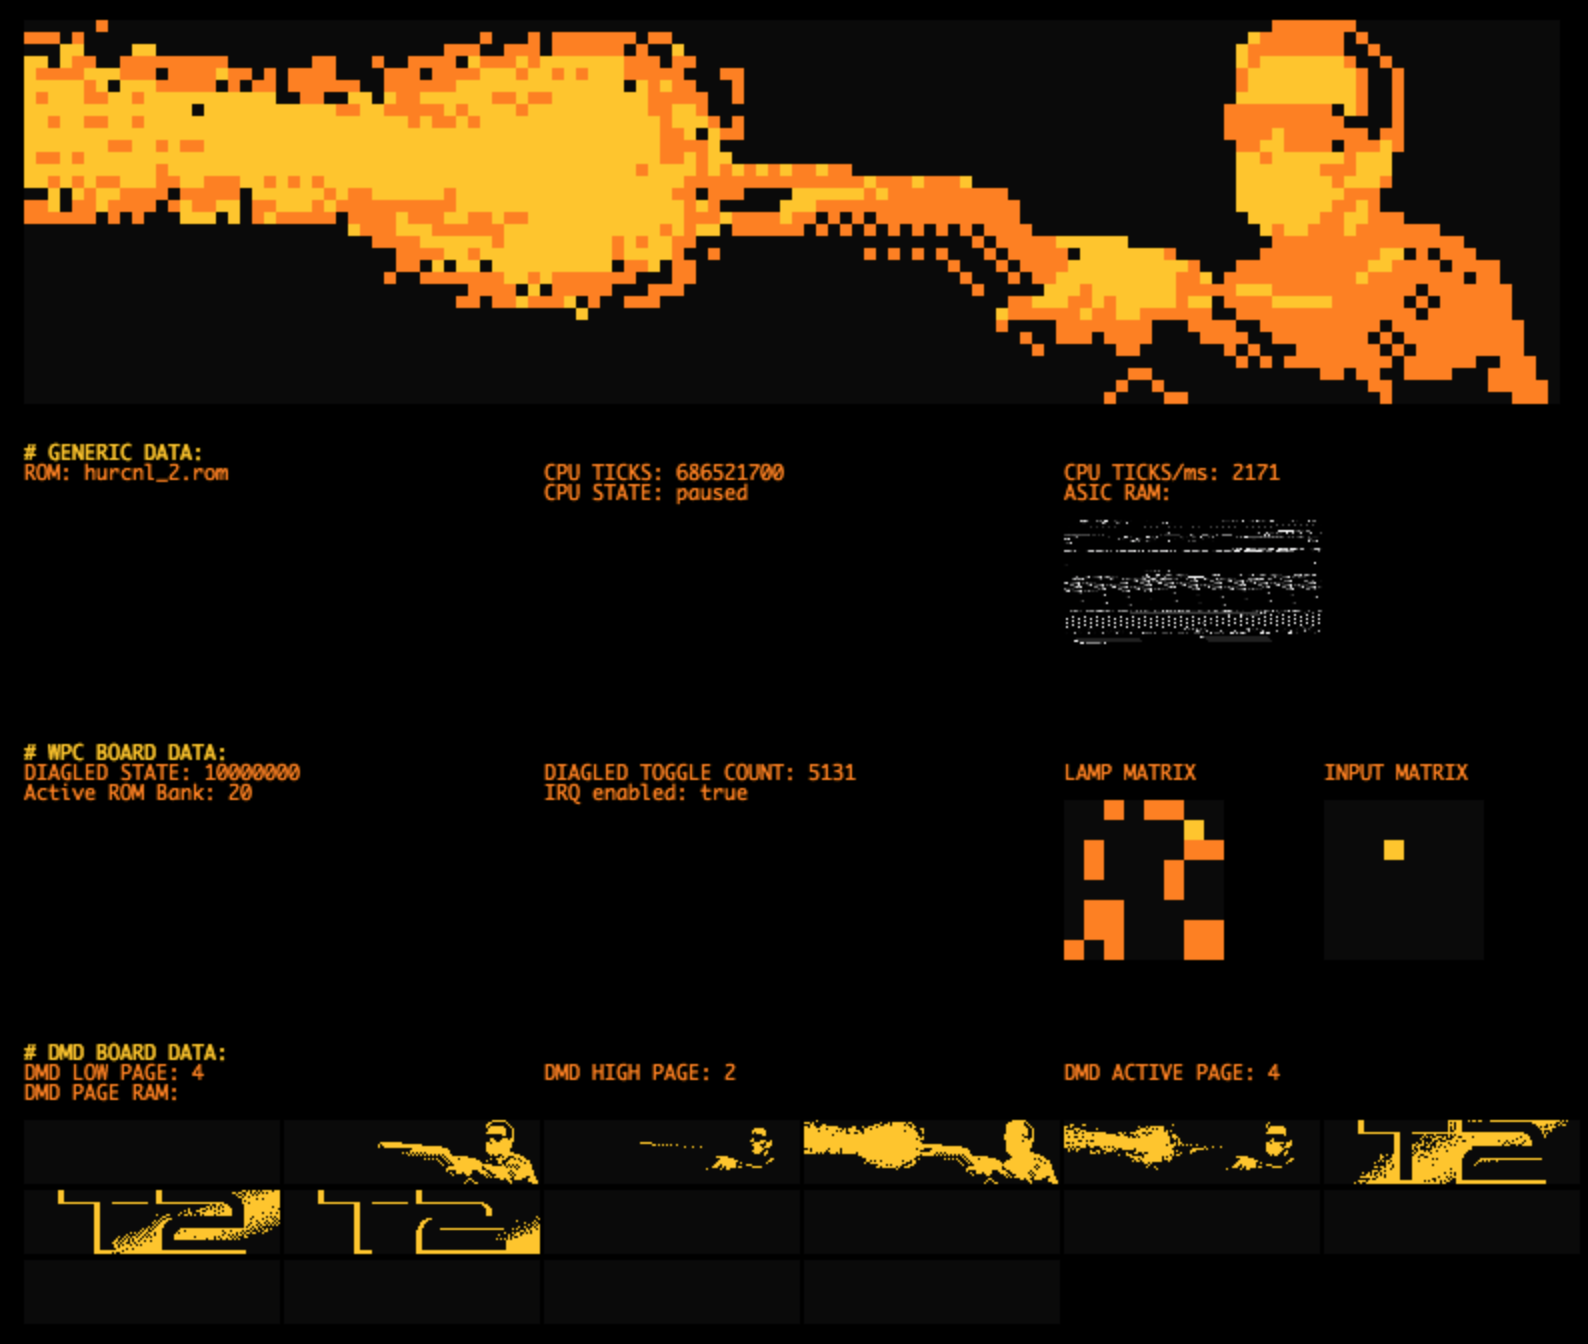
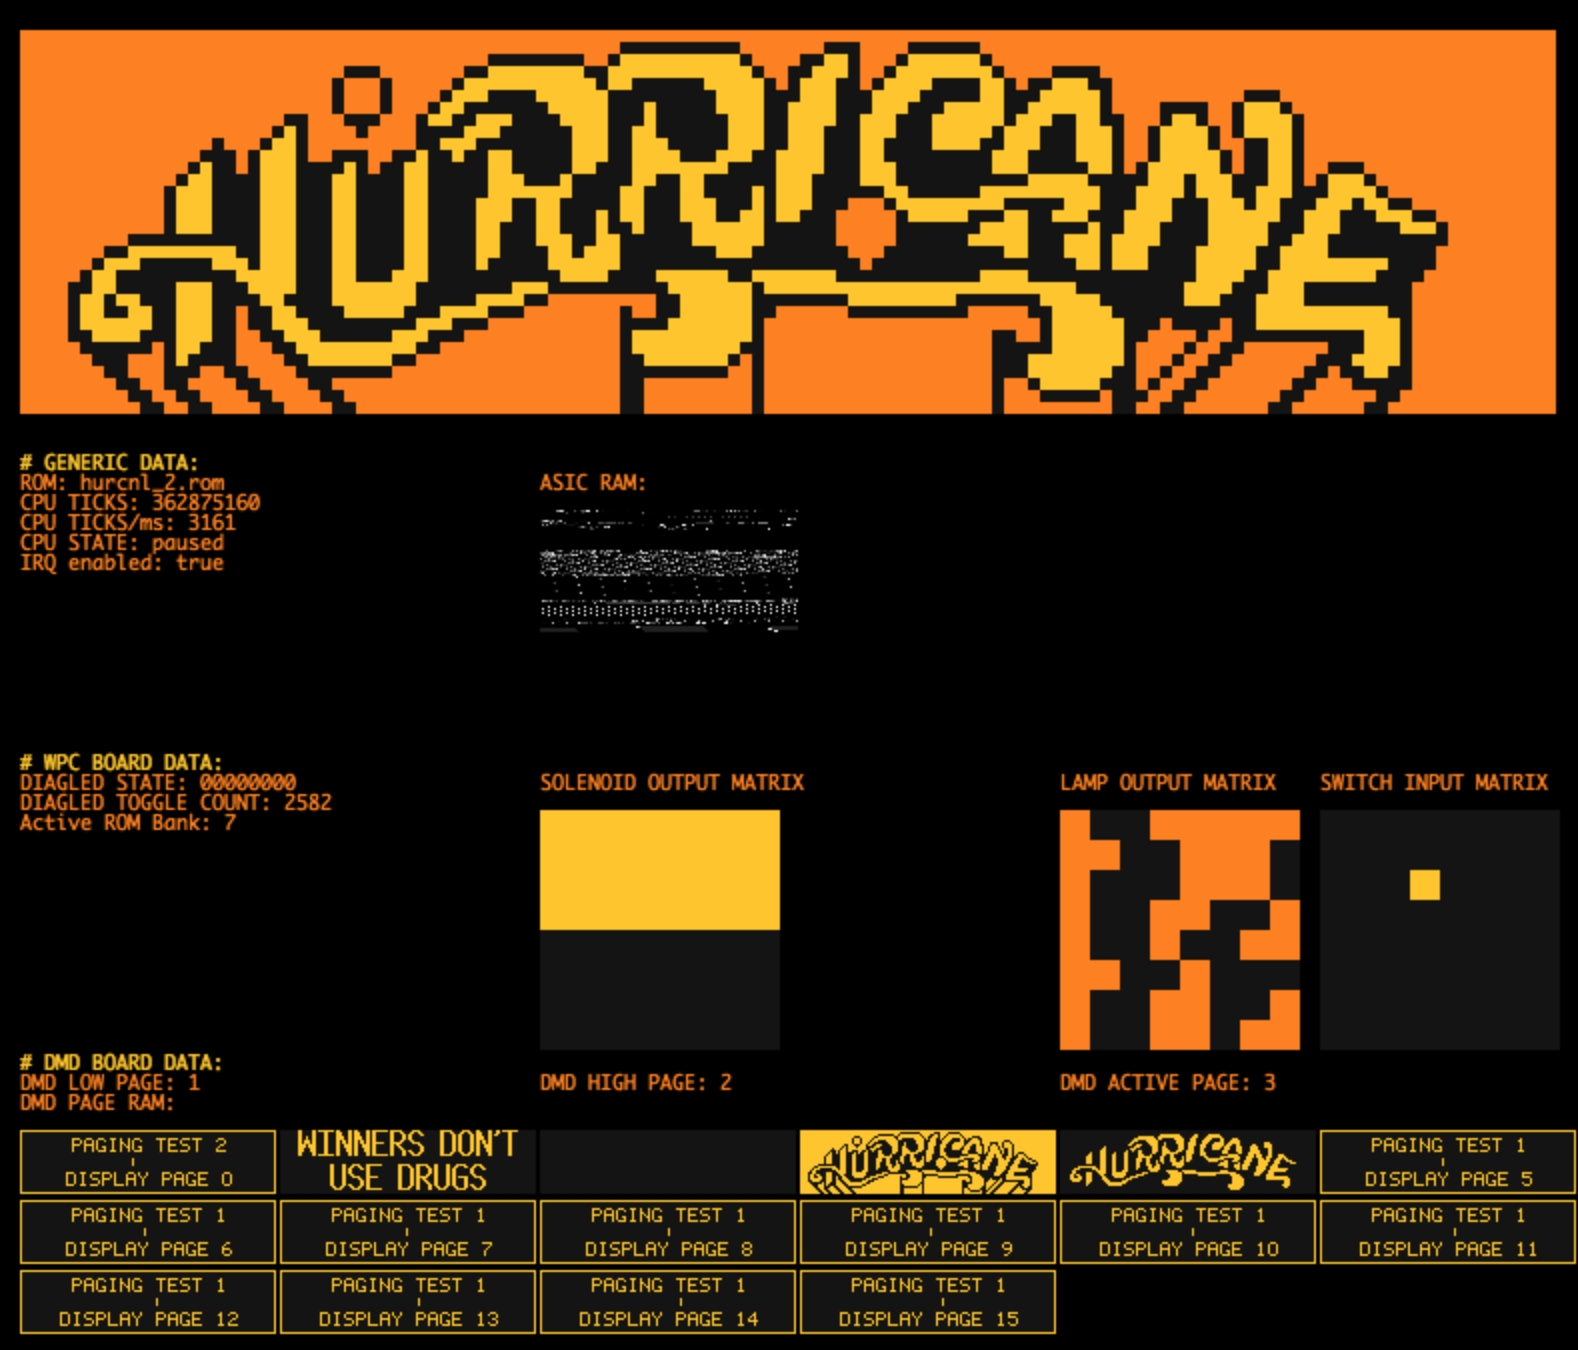
add solenoid skeleton

diff --git a/client/client.js b/client/client.js
@@ -10,7 +10,7 @@ console.log('hello');
 const CANVAS_WIDTH = 800;
 const CANVAS_HEIGHT = 800;
 var COLOR_DMD = [
-  'rgb(10,10,10)',
+  'rgb(20,20,20)',
   'rgb(164,82,0)',
   'rgb(255,128,0)',
   'rgb(255,198,0)',
@@ -68,8 +68,8 @@ function resetEmu() {
   console.log('reset emu');
   // HINT: make sure CORS is correct
   //downloadFileFromUrlAsUInt8Array('https://s3-eu-west-1.amazonaws.com/foo-temp/ft20_32.rom')
-  downloadFileFromUrlAsUInt8Array('https://s3-eu-west-1.amazonaws.com/foo-temp/t2_l8.rom')
-  //downloadFileFromUrlAsUInt8Array('https://s3-eu-west-1.amazonaws.com/foo-temp/hurcnl_2.rom')
+  //downloadFileFromUrlAsUInt8Array('https://s3-eu-west-1.amazonaws.com/foo-temp/t2_l8.rom')
+  downloadFileFromUrlAsUInt8Array('https://s3-eu-west-1.amazonaws.com/foo-temp/hurcnl_2.rom')
   //downloadFileFromUrlAsUInt8Array('https://s3-eu-west-1.amazonaws.com/foo-temp/tz_h8.u6')
     .then((rom) => {
       return WpcEmu.initVMwithRom(rom, 'hurcnl_2.rom');
@@ -116,21 +116,24 @@ function updateCanvas() {
 
   c.fillStyle = COLOR_DMD[2];
   c.fillText('ROM: hurcnl_2.rom', LEFT_X_OFFSET, YPOS_GENERIC_DATA + 10);
-  c.fillText('CPU TICKS: ' + emuState.ticks, MIDDLE_X_OFFSET, YPOS_GENERIC_DATA + 10);
-  c.fillText('CPU TICKS/ms: ' + emuState.opMs, RIGHT_X_OFFSET, YPOS_GENERIC_DATA + 10);
+  c.fillText('CPU TICKS: ' + emuState.ticks, LEFT_X_OFFSET, YPOS_GENERIC_DATA + 20);
+  c.fillText('CPU TICKS/ms: ' + emuState.opMs, LEFT_X_OFFSET, YPOS_GENERIC_DATA + 30);
   const cpuState = intervalId ? 'running' : 'paused';
-  c.fillText('CPU STATE: ' + cpuState, MIDDLE_X_OFFSET, YPOS_GENERIC_DATA + 20);
-  c.fillText('ASIC RAM:', RIGHT_X_OFFSET, YPOS_GENERIC_DATA + 20);
+  c.fillText('CPU STATE: ' + cpuState, LEFT_X_OFFSET, YPOS_GENERIC_DATA + 40);
+  c.fillText('IRQ enabled: ' + emuState.asic.wpc.irqEnabled, LEFT_X_OFFSET, YPOS_GENERIC_DATA + 50);
+
+  c.fillText('ASIC RAM:', MIDDLE_X_OFFSET, YPOS_GENERIC_DATA + 10);
 
   const diagnosticLed = emuState.asic.wpc.diagnosticLed ? emuState.asic.wpc.diagnosticLed.toString(2) : '00000000';
   const activePage = emuState.asic.dmd.activepage;
   c.fillText('DIAGLED STATE: ' + diagnosticLed, LEFT_X_OFFSET, YPOS_WPC_DATA + 10);
-  c.fillText('DIAGLED TOGGLE COUNT: ' + emuState.asic.wpc.diagnosticLedToggleCount, MIDDLE_X_OFFSET, YPOS_WPC_DATA + 10);
-  c.fillText('LAMP MATRIX', RIGHT_X_OFFSET, YPOS_WPC_DATA + 10);
-  c.fillText('INPUT MATRIX', RIGHT_PLUS_X_OFFSET, YPOS_WPC_DATA + 10);
+  c.fillText('DIAGLED TOGGLE COUNT: ' + emuState.asic.wpc.diagnosticLedToggleCount, LEFT_X_OFFSET, YPOS_WPC_DATA + 20);
+  c.fillText('Active ROM Bank: ' + emuState.asic.wpc.activeRomBank, LEFT_X_OFFSET, YPOS_WPC_DATA + 30);
 
-  c.fillText('Active ROM Bank: ' + emuState.asic.wpc.activeRomBank, LEFT_X_OFFSET, YPOS_WPC_DATA + 20);
-  c.fillText('IRQ enabled: ' + emuState.asic.wpc.irqEnabled, MIDDLE_X_OFFSET, YPOS_WPC_DATA + 20);
+  c.fillText('SOLENOID OUTPUT MATRIX', MIDDLE_X_OFFSET, YPOS_WPC_DATA + 10);
+  c.fillText('LAMP OUTPUT MATRIX', RIGHT_X_OFFSET, YPOS_WPC_DATA + 10);
+  c.fillText('SWITCH INPUT MATRIX', RIGHT_PLUS_X_OFFSET, YPOS_WPC_DATA + 10);
+
 
   c.fillText('DMD LOW PAGE: ' + emuState.asic.dmd.lowpage, LEFT_X_OFFSET, YPOS_DMD_DATA + 10);
   c.fillText('DMD HIGH PAGE: ' + emuState.asic.dmd.highpage, MIDDLE_X_OFFSET, YPOS_DMD_DATA + 10);
@@ -138,10 +141,10 @@ function updateCanvas() {
 
   c.fillText('DMD PAGE RAM:', LEFT_X_OFFSET, YPOS_DMD_DATA + 20);
 
+  drawMemRegion(emuState.asic.ram, MIDDLE_X_OFFSET, YPOS_GENERIC_DATA + 20, 128);
   drawMatrix8x8(emuState.asic.wpc.lampState, RIGHT_X_OFFSET, YPOS_WPC_DATA + 20);
+  drawMatrix8x8(emuState.asic.wpc.solenoidState, MIDDLE_X_OFFSET, YPOS_WPC_DATA + 20);
   drawMatrix8x8Binary(emuState.asic.wpc.inputState, RIGHT_PLUS_X_OFFSET, YPOS_WPC_DATA + 20);
-
-  drawMemRegion(emuState.asic.ram, RIGHT_X_OFFSET, YPOS_GENERIC_DATA + 30, 128);
 
   //dmd pages - 8 pixel (on/off) per byte, display is 128x32 pixels
   const videoRam = emuState.asic.dmd.videoRam;
@@ -173,7 +176,7 @@ function drawMemRegion(data, x, y, width) {
 }
 
 function drawMatrix8x8(data, x, y) {
-  const GRIDSIZE = 10;
+  const GRIDSIZE = 15;
   data.forEach((lamp, index) => {
     c.fillStyle = lamp & 0x80 ? COLOR_DMD[3] :
       lamp & 0x70 ? COLOR_DMD[2] : COLOR_DMD[0];

diff --git a/lib/boards/wpc.js b/lib/boards/wpc.js
@@ -4,12 +4,13 @@
 const debug = require('debug')('wpcemu:boards:wpc');
 const inputSwitchMatrix = require('./elements/input-switch-matrix');
 const outputLampMatrix = require('./elements/output-lamp-matrix');
+const outputSolenoidMatrix = require('./elements/output-solenoid-matrix');
 
 const OP = {
-  WPC_SOL_GEN_OUTPUT: 0x3FE0,
-  WPC_SOL_HIGHPOWER_OUTPUT: 0x3FE1,
-  WPC_SOL_FLASH1_OUTPUT: 0x3FE2,
-  WPC_SOL_LOWPOWER_OUTPUT: 0x3FE3,
+  WPC_SOLENOID_GEN_OUTPUT: 0x3FE0,
+  WPC_SOLENOID_HIGHPOWER_OUTPUT: 0x3FE1,
+  WPC_SOLENOID_FLASH1_OUTPUT: 0x3FE2,
+  WPC_SOLENOID_LOWPOWER_OUTPUT: 0x3FE3,
   WPC_LAMP_ROW_OUTPUT: 0x3FE4,
   WPC_LAMP_COL_STROBE: 0x3FE5,
   WPC_GI_TRIAC: 0x3FE6,
@@ -76,6 +77,7 @@ class WpcIo {
 
     this.inputSwitchMatrix = inputSwitchMatrix.getInstance();
     this.outputLampMatrix = outputLampMatrix.getInstance();
+    this.outputSolenoidMatrix = outputSolenoidMatrix.getInstance();
   }
 
   getUiState() {
@@ -84,6 +86,7 @@ class WpcIo {
     return {
       diagnosticLed,
       lampState: this.outputLampMatrix.lampState,
+      solenoidState: this.outputSolenoidMatrix.solenoidState,
       inputState: this.inputSwitchMatrix.switchState,
       diagnosticLedToggleCount: this.diagnosticLedToggleCount,
       irqEnabled: this.periodicIRQTimerEnabled,
@@ -130,10 +133,6 @@ class WpcIo {
       case OP.WPC_SHIFTADDRL:
       case OP.WPC_SHIFTBIT:
       case OP.WPC_SHIFTBIT2:
-      case OP.WPC_SOL_GEN_OUTPUT:
-      case OP.WPC_SOL_HIGHPOWER_OUTPUT:
-      case OP.WPC_SOL_FLASH1_OUTPUT:
-      case OP.WPC_SOL_LOWPOWER_OUTPUT:
       case OP.WPC_GI_TRIAC:
       case OP.WPC_ROM_LOCK:
       case OP.WPC_EXTBOARD1:
@@ -163,6 +162,13 @@ class WpcIo {
         //TODO not sure! without firq call DMD pages seems to be off
         this.interruptCallback.firq();
         return;
+
+      case OP.WPC_SOLENOID_GEN_OUTPUT:
+      case OP.WPC_SOLENOID_HIGHPOWER_OUTPUT:
+      case OP.WPC_SOLENOID_FLASH1_OUTPUT:
+      case OP.WPC_SOLENOID_LOWPOWER_OUTPUT:
+        this.outputSolenoidMatrix.setActive(offset, value);
+        break;
 
       case OP.WPC_LEDS:
         if (value !== this.oldDiagnostigLedState) {
@@ -288,10 +294,10 @@ class WpcIo {
   wpcemu:boards:wpc W_NOT_IMPLEMENTED 0x3ff3 0 +57ms
 
 Address	  Format	 Description
-$3FE0     Byte     WPC_SOL_GEN_OUTPUT (7-0: W: Enables for solenoids 25-29)
-$3FE1     Byte     WPC_SOL_HIGHPOWER_OUTPUT (7-0: W: Enables for solenoids 1-8)
-$3FE2     Byte     WPC_SOL_FLASH1_OUTPUT (7-0: W: Enables for solenoids 17-24)
-$3FE3     Byte     WPC_SOL_LOWPOWER_OUTPUT (7-0: W: Enables for solenoids 9-16)
+$3FE0     Byte     WPC_SOLENOID_GEN_OUTPUT (7-0: W: Enables for solenoids 25-29) or 25-28???
+$3FE1     Byte     WPC_SOLENOID_HIGHPOWER_OUTPUT (7-0: W: Enables for solenoids 1-8)
+$3FE2     Byte     WPC_SOLENOID_FLASH1_OUTPUT (7-0: W: Enables for solenoids 17-24)
+$3FE3     Byte     WPC_SOLENOID_LOWPOWER_OUTPUT (7-0: W: Enables for solenoids 9-16)
 $3FE4     Byte     WPC_LAMP_ROW_OUTPUT (7-0: W: Lamp matrix row output)
 $3FE5     Byte     WPC_LAMP_COL_STROBE (7-0: W: Enables for solenoids 9-16)
                     7-0: W: Lamp matrix column strobe, At most one bit in this register should be set.

diff --git a/lib/boards/elements/output-solenoid-matrix.js b/lib/boards/elements/output-solenoid-matrix.js
@@ -1,0 +1,53 @@
+'use strict';
+/*jshint bitwise: false*/
+
+const debug = require('debug')('wpcemu:boards:elements:outputSolenoidMatrix');
+
+module.exports = {
+  getInstance,
+};
+
+function getInstance() {
+  return new OutputSolenoidMatrix();
+}
+
+const MATRIX_COLUMN_SIZE = 64;
+const ALL_SOLENOID_OFF = 0x00;
+
+class OutputSolenoidMatrix {
+  constructor() {
+    this.solenoidState = new Uint8Array(MATRIX_COLUMN_SIZE).fill(ALL_SOLENOID_OFF);
+    this.activeRow = 0;
+    this.activeColumn = 0;
+    this.ticks = 0;
+  }
+
+/*
+$3FE0     Byte     WPC_SOLENOID_GEN_OUTPUT (7-0: W: Enables for solenoids 25-29) or 25-28???
+$3FE1     Byte     WPC_SOLENOID_HIGHPOWER_OUTPUT (7-0: W: Enables for solenoids 1-8)
+$3FE2     Byte     WPC_SOLENOID_FLASH1_OUTPUT (7-0: W: Enables for solenoids 17-24)
+$3FE3     Byte     WPC_SOLENOID_LOWPOWER_OUTPUT (7-0: W: Enables for solenoids 9-16)
+*/
+
+  _updateSolenoids(offset, value) {
+    for (var i = 0; i < 8; i++) {
+      if (value & (1 << i)) {
+        this.solenoidState[offset + i] = 0xFF;
+      } else this.solenoidState[offset + i]=0;
+    }
+  }
+
+  setActive(sourceAddress, value) {
+    value -= 1;
+    switch(sourceAddress) {
+      case 0x3FE0:
+        return this._updateSolenoids(24, value);
+      case 0x3FE1:
+        return this._updateSolenoids(0, value);
+      case 0x3FE2:
+        return this._updateSolenoids(16, value);
+      case 0x3FE3:
+        return this._updateSolenoids(8, value);
+    }
+  }
+}

diff --git a/test/lib/boards/wpc.test.js b/test/lib/boards/wpc.test.js
@@ -89,32 +89,10 @@ test('wpc, should WPC_SHIFTBIT 0xFF', (t) => {
   t.is(result, 0x80);
 });
 
-test('wpc, update active lamp, maximal value', (t) => {
+test('wpc, update active lamp', (t) => {
   const wpc = t.context;
-  wpc._updateActiveLamp(0x80, 0x80);
-  t.is(wpc.activeLamp, 64);
-});
-
-test('wpc, update active lamp, all off', (t) => {
-  const wpc = t.context;
-  wpc._updateActiveLamp(0, 0);
-  t.is(wpc.activeLamp, 0);
-});
-
-test('wpc, update active lamp, minimal value', (t) => {
-  const wpc = t.context;
-  wpc._updateActiveLamp(0x01, 0x01);
-  t.is(wpc.activeLamp, 1);
-});
-
-test('wpc, update active lamp, row maximal value', (t) => {
-  const wpc = t.context;
-  wpc._updateActiveLamp(0x80, 0x01);
-  t.is(wpc.activeLamp, 57);
-});
-
-test('wpc, update active lamp, col maximal value', (t) => {
-  const wpc = t.context;
-  wpc._updateActiveLamp(0x01, 0x80);
-  t.is(wpc.activeLamp, 8);
+  wpc.write(WPC.OP.WPC_LAMP_ROW_OUTPUT, 0x4);
+  wpc.write(WPC.OP.WPC_LAMP_COL_STROBE, 0x4);
+  const result = wpc.getUiState().lampState;
+  t.is(result[18], 0x80);
 });

diff --git a/lib/boards/dmd.js b/lib/boards/dmd.js
@@ -90,7 +90,7 @@ class DMD {
       // flip output buffer, needed to calculate shading
       this.videoOutputPointer = (this.videoOutputPointer + 1) % DMD_SHADING_FRAMES;
 
-      if (this.videoOutputPointer === 0) {
+      if (this.videoOutputPointer === (DMD_SHADING_FRAMES - 1)) {
         // update output video frame with new and raw input data
         this.outputDmdDisplay.updateVideoBuffer(this.videoOutputBuffer);
       }

diff --git a/lib/emulator.js b/lib/emulator.js
@@ -80,7 +80,7 @@ class Emulator {
   // MAIN LOOP
   executeCycle() {
     const currentTicks = CPU6809.ticks();
-    const ticksToRun = currentTicks < this.initialCycles ? (this.initialCycles / 4096) : 512;
+    const ticksToRun = 512;
     const ticks = CPU6809.steps(ticksToRun) - currentTicks;
 
     this.ticksIrq += ticks;

diff --git a/lib/boards/external-io.js b/lib/boards/external-io.js
@@ -41,7 +41,7 @@ class ExternalIo {
         break;
 
       case OP.WPC_SOUND_CONTROL_STATUS:
-        debug('WRITE_SND', REVERSEOP[offset], value);
+        //debug('WRITE_SND', REVERSEOP[offset], value);
         //sndbrd_0_ctrl_w(0,data);
         this.soundboard.writeControlStatus(value);
         break;

diff --git a/README.md b/README.md
@@ -46,7 +46,7 @@ Reference: http://bcd.github.io/freewpc/The-WPC-Hardware.html#The-WPC-Hardware
 - Interrupt FIRQ ✓ (incl. source - not sure if needed)
 
 ## Power Driver Board
-- Lamp Circuits
+- Lamp Circuits ✓
 - Solenoid Circuits
 - General Illumination Circuits (Triac)
 - Zero Cross Circuit ✓
@@ -67,7 +67,7 @@ Reference: http://bcd.github.io/freewpc/The-WPC-Hardware.html#The-WPC-Hardware
 ## Debug UI
 - DMD output ✓
 - Debug KPI ✓
-- Cabinet input keys work
+- Cabinet input keys work ✓
 
 # Future ideas
 - Hook it up to a Virtual Pinball / Pinball frontend
